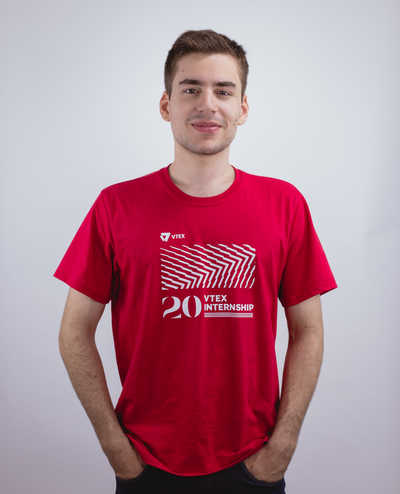
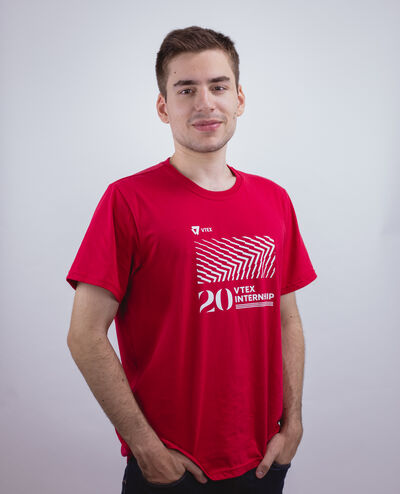
rebuilding site Fri 21 May 12:23:14 -03 2021

Changed region(s): [[0.12, 0.0304, 0.84, 1.0], [0.45, 0.2733, 0.48, 0.3036]]

diff --git a/index.html b/index.html
@@ -9,6 +9,7 @@
   <link rel="shortcut icon" type="image/x-icon" href="https://mredigonda.github.io/img/favicon.png">
   <link rel="preload" href="https://mredigonda.github.io/fonts/OpenSansCondensed-Bold.woff2" type="font/woff2" crossorigin="anonymous" as="font">
   <link rel="preload" href="https://mredigonda.github.io/fonts/Lora-Regular.woff2" type="font/woff2" crossorigin="anonymous" as="font">
+  <link href="https://cdnjs.cloudflare.com/ajax/libs/prism/1.23.0/themes/prism.min.css" rel="stylesheet" />
   <title>
   Maxi Redigonda's Blog
 </title>
@@ -28,7 +29,8 @@ if (!doNotTrack) {
 
 </head>
 <body>
-
+  <script src="https://cdnjs.cloudflare.com/ajax/libs/prism/1.23.0/components/prism-core.min.js"></script>
+	<script src="https://cdnjs.cloudflare.com/ajax/libs/prism/1.23.0/plugins/autoloader/prism-autoloader.min.js"></script>
   <style type="text/css">
     @font-face {
         font-family: "Open Sans Condensed";
@@ -59,11 +61,10 @@ if (!doNotTrack) {
         text-align: left;
       }
     </style>
-    <picture class="profile-picture">
-      <source media="(min-width:720px)" srcset="img/profile-2x.jpg">
-      <source media="(min-width:450px)" srcset="img/profile-1x.jpg">
-      <img src="img/profile-1x.jpg" alt="Maxi Redigonda's picture">
-    </picture>
+    <img class="profile-picture"
+          width="400px"
+          src="img/profile.jpg"
+          alt="Maxi Redigonda's profile picture, he looks handsome.">
     <!-- raw HTML omitted -->
 <h2 id="about-me">About me</h2>
 <p>My name is Maxi Redigonda, I study Computer Science in 🇦🇷 Argentina.</p>

diff --git a/blog/brazilian-icpc-summer-school/index.html b/blog/brazilian-icpc-summer-school/index.html
@@ -8,6 +8,7 @@
   <link rel="shortcut icon" type="image/x-icon" href="https://mredigonda.github.io/img/favicon.png">
   <link rel="preload" href="https://mredigonda.github.io/fonts/OpenSansCondensed-Bold.woff2" type="font/woff2" crossorigin="anonymous" as="font">
   <link rel="preload" href="https://mredigonda.github.io/fonts/Lora-Regular.woff2" type="font/woff2" crossorigin="anonymous" as="font">
+  <link href="https://cdnjs.cloudflare.com/ajax/libs/prism/1.23.0/themes/prism.min.css" rel="stylesheet" />
   <title>
   Brazilian ICPC Summer School 2018 | Blog
 </title>
@@ -27,7 +28,8 @@ if (!doNotTrack) {
 
 </head>
 <body>
-
+  <script src="https://cdnjs.cloudflare.com/ajax/libs/prism/1.23.0/components/prism-core.min.js"></script>
+	<script src="https://cdnjs.cloudflare.com/ajax/libs/prism/1.23.0/plugins/autoloader/prism-autoloader.min.js"></script>
   <style type="text/css">
     @font-face {
         font-family: "Open Sans Condensed";

diff --git a/toolbelt/index.html b/toolbelt/index.html
@@ -8,6 +8,7 @@
   <link rel="shortcut icon" type="image/x-icon" href="https://mredigonda.github.io/img/favicon.png">
   <link rel="preload" href="https://mredigonda.github.io/fonts/OpenSansCondensed-Bold.woff2" type="font/woff2" crossorigin="anonymous" as="font">
   <link rel="preload" href="https://mredigonda.github.io/fonts/Lora-Regular.woff2" type="font/woff2" crossorigin="anonymous" as="font">
+  <link href="https://cdnjs.cloudflare.com/ajax/libs/prism/1.23.0/themes/prism.min.css" rel="stylesheet" />
   <title>
   Toolbelt | Blog
 </title>
@@ -27,7 +28,8 @@ if (!doNotTrack) {
 
 </head>
 <body>
-
+  <script src="https://cdnjs.cloudflare.com/ajax/libs/prism/1.23.0/components/prism-core.min.js"></script>
+	<script src="https://cdnjs.cloudflare.com/ajax/libs/prism/1.23.0/plugins/autoloader/prism-autoloader.min.js"></script>
   <style type="text/css">
     @font-face {
         font-family: "Open Sans Condensed";

diff --git a/blog/index.html b/blog/index.html
@@ -8,6 +8,7 @@
   <link rel="shortcut icon" type="image/x-icon" href="https://mredigonda.github.io/img/favicon.png">
   <link rel="preload" href="https://mredigonda.github.io/fonts/OpenSansCondensed-Bold.woff2" type="font/woff2" crossorigin="anonymous" as="font">
   <link rel="preload" href="https://mredigonda.github.io/fonts/Lora-Regular.woff2" type="font/woff2" crossorigin="anonymous" as="font">
+  <link href="https://cdnjs.cloudflare.com/ajax/libs/prism/1.23.0/themes/prism.min.css" rel="stylesheet" />
   <title>
   Blog
 </title>
@@ -27,7 +28,8 @@ if (!doNotTrack) {
 
 </head>
 <body>
-
+  <script src="https://cdnjs.cloudflare.com/ajax/libs/prism/1.23.0/components/prism-core.min.js"></script>
+	<script src="https://cdnjs.cloudflare.com/ajax/libs/prism/1.23.0/plugins/autoloader/prism-autoloader.min.js"></script>
   <style type="text/css">
     @font-face {
         font-family: "Open Sans Condensed";

diff --git a/css/main.css b/css/main.css
@@ -10,7 +10,6 @@
   }
 }
 
-
 p {
   font-size: 20px;
   padding: 14px 0px;
@@ -104,10 +103,12 @@ ul {
   float: right;
 }
 
-.profile-picture img {
+img.profile-picture {
   -webkit-box-shadow: 0px 0px 5px 0px rgba(0,0,0,0.5);
   -moz-box-shadow: 0px 0px 5px 0px rgba(0,0,0,0.5);
-  box-shadow: 0px 0px 5px 0px rgba(0,0,0,0.5);
+  box-shadow: 0px 0px 20px 0px rgba(0,0,0,0.5);
+  border: 1px solid black;
+  max-width: 50%;
 }
 
 .blog-menu {
